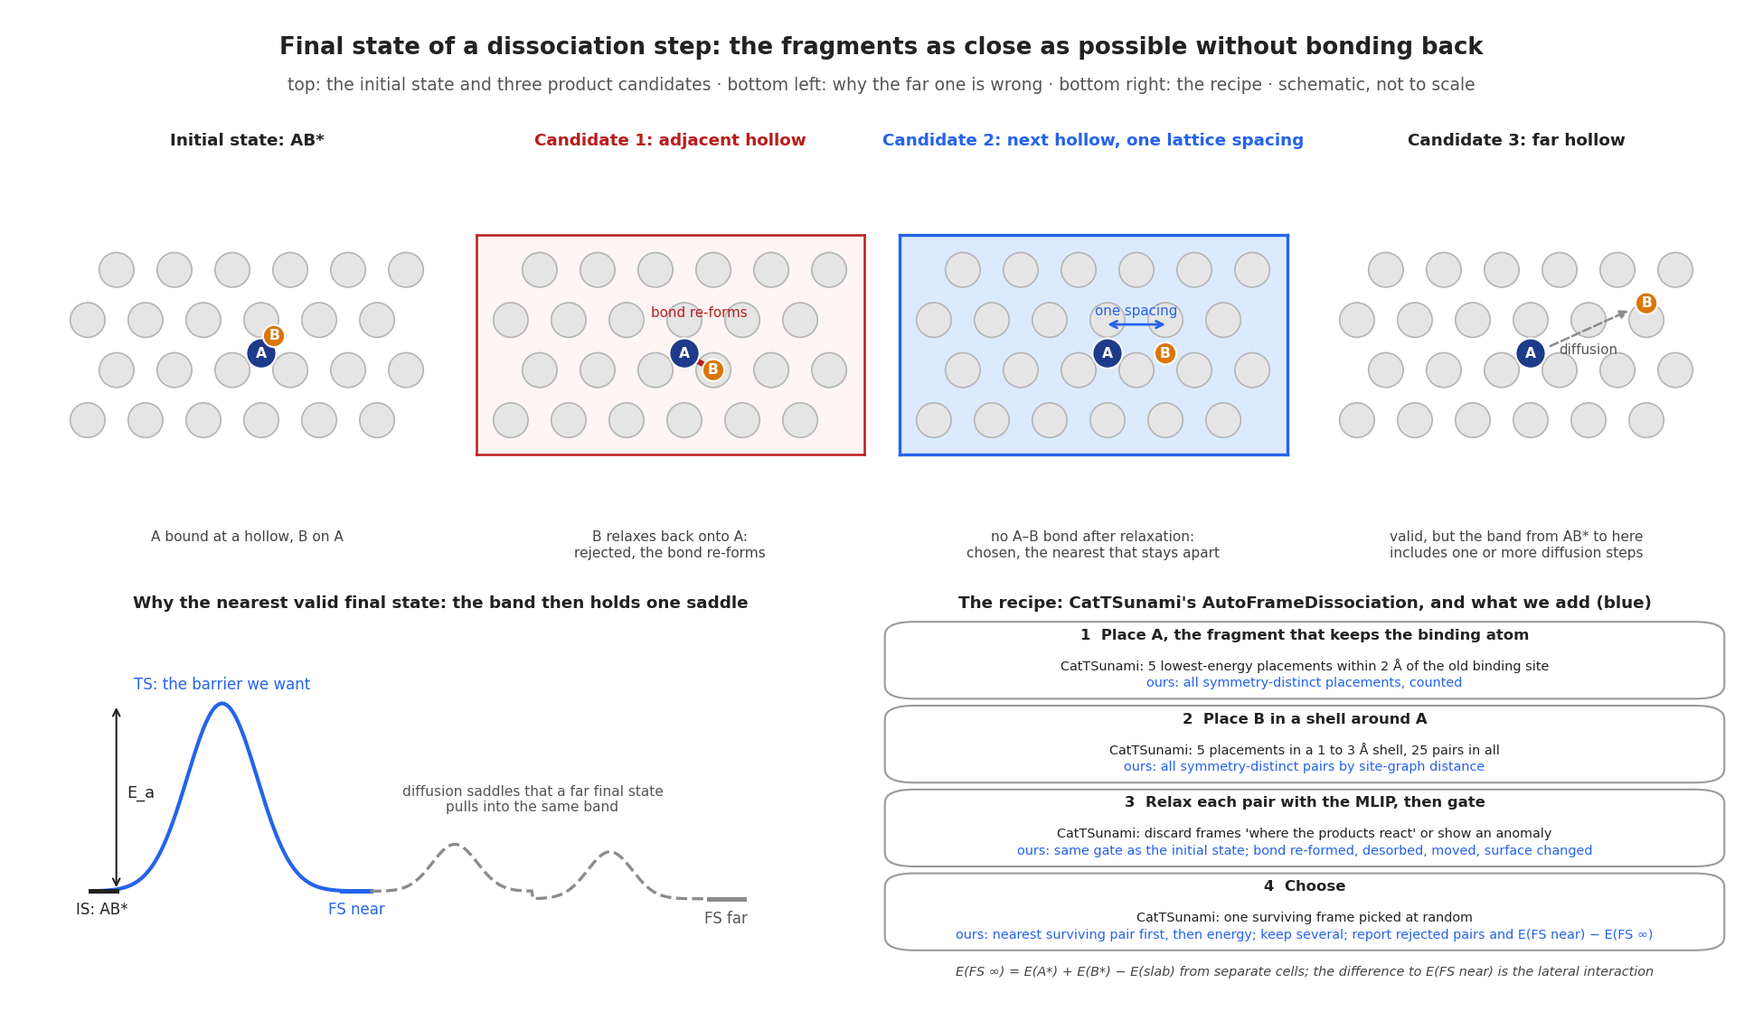
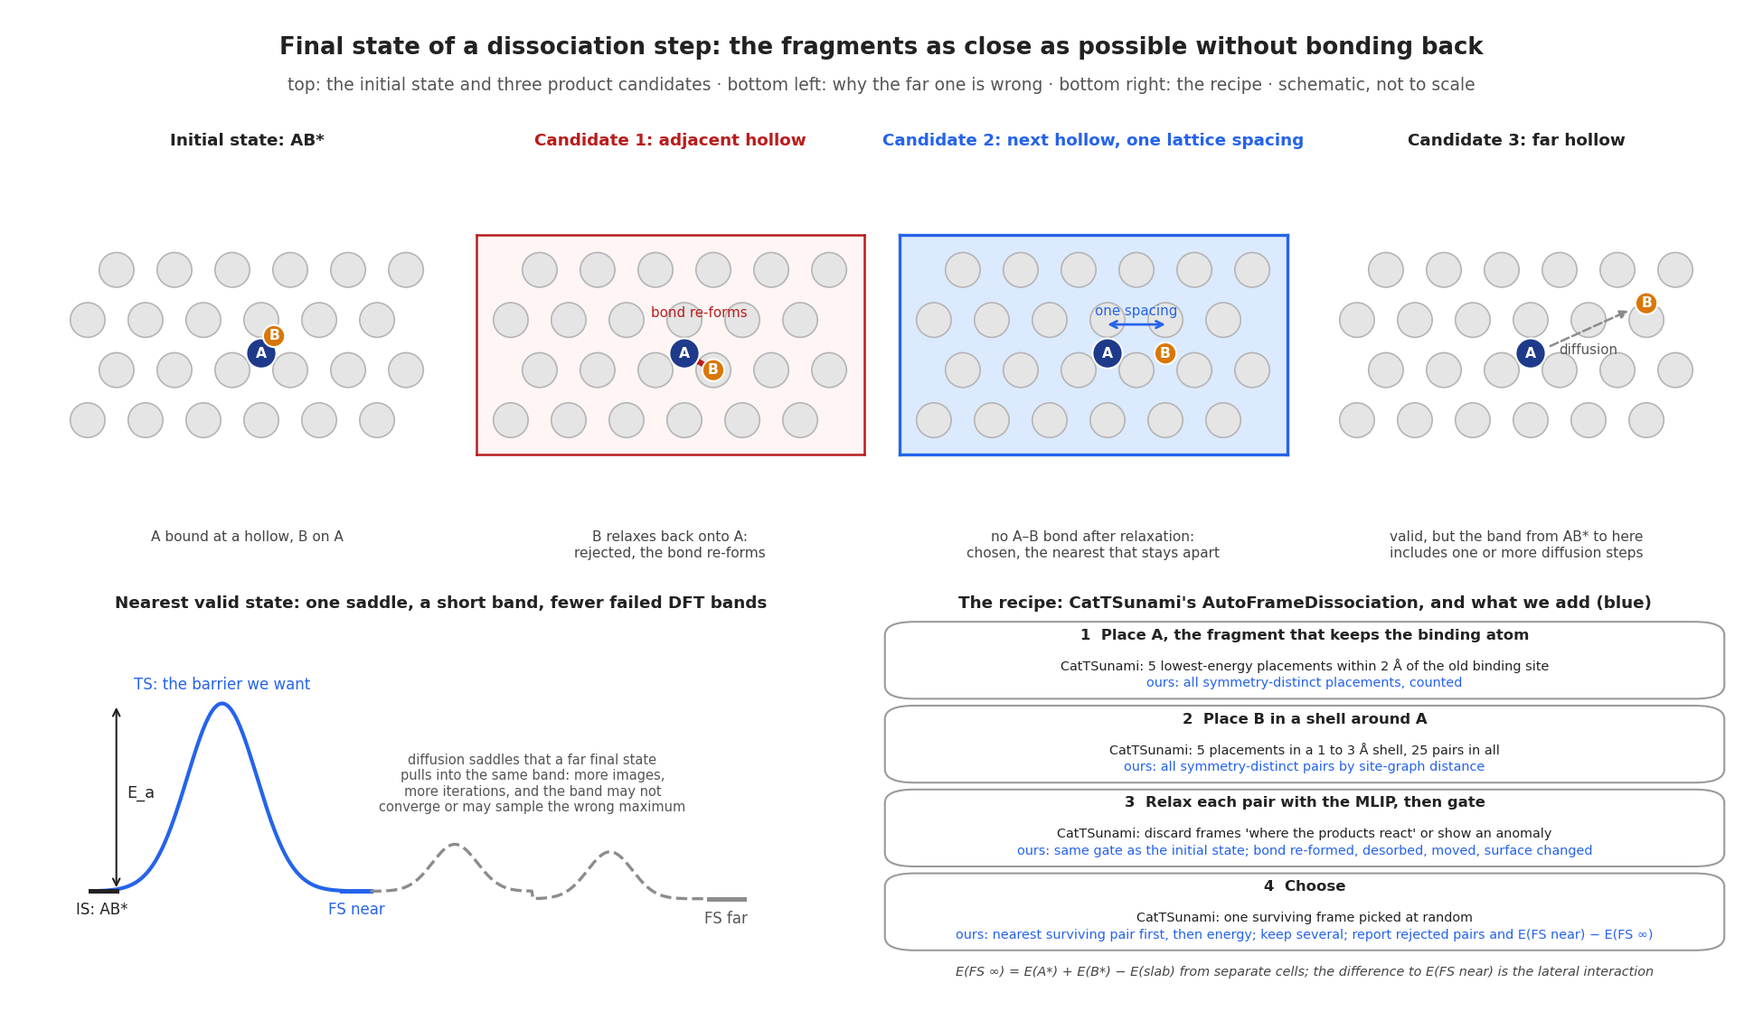
Add build plan figure and the cost argument for gated final states
docs/adsorption-agent-workflow.md: build plan (figure 22) under Decisions with the critical path; section 16 gains the cost argument with CatTSunami's convergence numbers, its two band checks, and the three measurable outputs.
docs/agent-context.md: build order in section 18; cost rule in section 23.
docs/figures: figure 22 and script; figure 21 updated. READMEs: figure count.

Changed region(s): [[0.0615, 0.5526, 0.4308, 0.614], [0.2154, 0.7368, 0.4, 0.7982]]

diff --git a/docs/figures/src/22-build-plan.py b/docs/figures/src/22-build-plan.py
@@ -1,0 +1,157 @@
+"""Figure 22: what has to be built, in which order, what each piece reuses, and what is measured.
+Numbered blue badges and thick blue arrows mark the critical path to the first measured barrier."""
+import sys, os
+sys.path.insert(0, os.path.dirname(__file__))
+from _style import *
+from matplotlib.patches import FancyBboxPatch, Circle
+
+GREEN, AMBER_F, AMBER_E, PURPLE_F, PURPLE_E = "#15803d", "#fef3c7", "#b45309", "#f3e8ff", "#7e22ce"
+KIND = {"decide": dict(fc="#f3f4f6", ec="#6b7280", lw=1.1, ls="-"),
+        "build":  dict(fc="white",   ec=EDGE,      lw=1.0, ls="-"),
+        "measure":dict(fc=AMBER_F,   ec=AMBER_E,   lw=1.1, ls="-"),
+        "release":dict(fc=HI_FACE,   ec=HI_EDGE,   lw=1.4, ls="-"),
+        "ext":    dict(fc=PURPLE_F,  ec=PURPLE_E,  lw=1.2, ls="--")}
+
+fig = plt.figure(figsize=(16, 11))
+ax = fig.add_axes([0, 0, 1, 1]); ax.set_xlim(0, 1); ax.set_ylim(0, 1); ax.axis("off")
+title(fig, "What has to be built: five columns in order, the numbered blue path is the shortest route to one measured barrier",
+      "each box: the task, what it does, what it reuses (green), what it needs (grey) · dashed purple is the extension layer · schematic")
+
+# legend
+leg = [("decide", "decide first (human)"), ("build", "build: a code tool"), ("measure", "measure: an experiment"),
+       ("release", "release"), ("ext", "extension layer, later")]
+for j, (k, lab) in enumerate(leg):
+    x = 0.02 + j * 0.15
+    ax.add_patch(FancyBboxPatch((x, 0.8835), 0.018, 0.011, boxstyle="round,pad=0.002,rounding_size=0.004", zorder=2, **KIND[k]))
+    ax.text(x + 0.023, 0.889, lab, ha="left", va="center", fontsize=8.2)
+ax.add_patch(Circle((0.787, 0.889), 0.0075, fc=HI_EDGE, ec="white", zorder=3)); ax.text(0.787, 0.889, "3", ha="center", va="center", fontsize=6.5, color="white", fontweight="bold", zorder=4)
+ax.text(0.80, 0.889, "critical path, in order", ha="left", va="center", fontsize=8.2)
+ax.text(0.905, 0.889, "reuse: existing code", ha="left", va="center", fontsize=8.2, color=GREEN)
+
+COLW, GAP, X0 = 0.176, 0.020, 0.014
+def cx(i): return X0 + i * (COLW + GAP)
+heads = ["0 · Decide first", "1 · Foundations", "2 · ML relaxation and trust", "3 · Path steps", "4 · Measure, then release"]
+for i, h in enumerate(heads):
+    ax.text(cx(i) + COLW / 2, 0.853, h, ha="center", va="center", fontsize=9.2, fontweight="bold", color="#333333")
+ax.plot([0.014, 0.982], [0.838, 0.838], color=EDGE, lw=0.8)
+
+TOP, PITCH, H = 0.828, 0.118, 0.102
+pos = {}
+def task(col, row, key, kind, head, body, reuse=None, needs=None, badge=None, h=H):
+    x = cx(col); y = TOP - row * PITCH - h
+    ax.add_patch(FancyBboxPatch((x, y), COLW, h, boxstyle="round,pad=0.003,rounding_size=0.01", zorder=2, **KIND[kind]))
+    ax.text(x + COLW / 2, y + h - 0.006, head, ha="center", va="top", fontsize=8.2, fontweight="bold", zorder=3)
+    yb = y + h - 0.030
+    ax.text(x + COLW / 2, yb, body, ha="center", va="top", fontsize=6.8, zorder=3, linespacing=1.18)
+    if reuse: ax.text(x + COLW / 2, y + 0.022 if needs else y + 0.006, "reuse: " + reuse, ha="center", va="bottom", fontsize=6.5, color=GREEN, zorder=3)
+    if needs: ax.text(x + COLW / 2, y + 0.006, "needs: " + needs, ha="center", va="bottom", fontsize=6.3, color="#777777", style="italic", zorder=3)
+    if badge:
+        ax.add_patch(Circle((x + 0.012, y + h - 0.012), 0.0095, fc=HI_EDGE, ec="white", lw=1.2, zorder=5))
+        ax.text(x + 0.012, y + h - 0.012, str(badge), ha="center", va="center", fontsize=7, color="white", fontweight="bold", zorder=6)
+    pos[key] = (x, y, COLW, h)
+
+# ---- column 0: decide
+task(0, 0, "D1", "decide", "System and product", "adsorbate AB*, surface, product A* + B*;\nfirst case *OH → *O + *H on Pt(111)?", badge=1)
+task(0, 1, "D2", "decide", "Compute and codes", "DFT code and budget; GPU for MLIPs;\nany DFT NEB at all, or ML only?")
+task(0, 2, "D3", "decide", "Benchmark and pass criterion", "OC20NEB subset as ground truth?\nthen settings must match OC20's\nRPBE and PAW choices")
+task(0, 3, "D4", "decide", "Headline claim", "barrier-ready endpoints, or\n'knows when not to trust itself'")
+task(0, 4, "D5", "decide", "Final-state rules", "distance metric; binding fragment\nfixed or free; nearest survivor or\nlowest energy within one hop")
+
+# ---- column 1: foundations
+task(1, 0, "T1", "build", "Settings lock", "convergence sweep on E_ads for cutoff,\nk-mesh, smearing, layers; writes\nPROJECT.md; every run reads it",
+     reuse="AiiDA common workflows, SSSP", needs="D1, D3", badge=2)
+task(1, 1, "T2", "build", "Site and pair enumeration", "symmetry-complete sites and A–B pairs;\nBurnside count; fcc and hcp apart;\ncount checked against the pattern",
+     reuse="spglib, CatKit, pymatgen", needs="T1", badge=3)
+task(1, 2, "T3", "build", "Placement script", "conformers in vacuum first; start 2 to 3 Å\nabove the site; random displacement;\nthe LLM never places atoms",
+     reuse="ASE, CatKit", needs="T2")
+task(1, 3, "T4", "build", "Validity gate", "AdsorbML's four checks + imaginary mode\n+ bond re-formed; one code path for\ninitial and final states",
+     reuse="fairchem anomaly detection", needs="T3", badge=4)
+task(1, 4, "T5", "build", "Descriptor card", "structure in; site, point group, CN, height,\nbonds, tilt, moments, verdicts out;\nthe only thing the LLM reads",
+     reuse="pymatgen, Robocrystallographer", needs="T4")
+
+# ---- column 2: ML and trust
+task(2, 0, "T6", "build", "MLIP choice", "benchmark two or three potentials on the\nsystem class; record the choice and why",
+     reuse="AtomisticSkills ml-mlip-benchmark", needs="D2", badge=5)
+task(2, 1, "T7", "build", "Calibrated doubt", "ensemble disagreement against DFT error\non a few labels; a threshold that\nescalates instead of guessing",
+     reuse="UMA, MACE, EquiformerV2", needs="T6, T4")
+task(2, 2, "T8", "build", "Rank and human checkpoint", "cards + rank + uncertainty shown;\nthe choice and its reason go to the\nlessons log, later into the skill",
+     reuse="none: ours", needs="T5, T7")
+task(2, 3, "T9", "ext", "+DFT on the chosen five", "single points before any path search;\nthe board's '+DFT?'", needs="T8, D2")
+task(2, 4, "T10", "ext", "Active-learning loop", "high doubt → a few DFT labels →\nfine-tune → re-run 6 to 8",
+     reuse="AtomisticSkills ml-mace-finetune", needs="T7, D2")
+
+# ---- column 3: path
+task(3, 0, "P1", "build", "Nearest non-recombining FS", "enumerate pairs, relax, gate, rank by\nsite distance; keep several; report\nrejected pairs and E(FS near) − E(FS ∞)",
+     reuse="fairchem AutoFrameDissociation", needs="T2, T4, T6, D5", badge=6)
+task(3, 1, "P2", "build", "Pairing and connectivity", "atom mapping and unwrapping across the\ncell; check the IS–FS pair is the\nintended reaction",
+     reuse="CatTSunami interpolation, NEBscape idea", needs="P1")
+task(3, 2, "P3", "build", "ML NEB and climbing image", "band on the MLIP, climbing image or\ndimer refinement; several pairs per\nreaction, lowest valid kept",
+     reuse="fairchem CatTSunami, ASE NEB", needs="P2", badge=7)
+task(3, 3, "P4", "build", "Saddle validation", "one imaginary mode; path ends at this IS and\nFS; connectivity constant along the band except\nthe breaking bond; diagnose, revise once",
+     reuse="ASE vibrations, Sella, CatTSunami band checks", needs="P3", badge=8)
+task(3, 4, "P5", "build", "DFT refinement and report", "single points with the locked settings;\nbarrier, validated path, ML and agentic\nuncertainty, full decision trace",
+     reuse="ASE calculators, AiiDA", needs="P4, T7, D2")
+
+# ---- column 4: measure and release
+task(4, 0, "M1", "measure", "H on Pt(111) end to end", "steps 1 to 8 on the simplest system;\nE_ads against CE27 and OC20",
+     needs="T1 to T8")
+task(4, 1, "M2", "measure", "*OH → *O + *H against OC20NEB", "our endpoints and band versus the\nreleased DFT band; barrier within\ntolerance is the pass criterion",
+     needs="P1 to P5, D3", badge=9)
+task(4, 2, "M3", "measure", "Three numbers nobody reports", "endpoint → barrier shift, naive versus gated\nendpoints, in eV and as a rate factor; how often\nthe nearest pair bonds back; DFT band force calls\nand failure rate, naive versus gated endpoints",
+     needs="P1, P3, D2")
+task(4, 3, "M4", "measure", "Ni(111) doubt demo", "the agent flags ML disagreement and\nstops for review instead of guessing",
+     needs="T7, T8")
+task(4, 4, "M5", "ext", "Agentic uncertainty", "run the planner N times on one input;\nreport how often its choices differ",
+     needs="T8, P5")
+task(4, 5, "R1", "release", "Release", "SKILL.md, MCP tools on AtomisticSkills,\nbenchmark data and traces on Zenodo",
+     needs="M1, M2", badge=10, h=0.072)
+
+# ---- critical path arrows
+def centre(k, side):
+    x, y, w, h = pos[k]
+    return {"r": (x + w, y + h / 2), "l": (x, y + h / 2), "t": (x + w / 2, y + h), "b": (x + w / 2, y)}[side]
+path = [("D1", "T1", "r", "l"), ("T1", "T2", "b", "t"), ("T2", "T4", "b", "t"), ("T4", "T6", "r", "l"),
+        ("T6", "P1", "r", "l"), ("P1", "P3", "b", "t"), ("P3", "P4", "b", "t"), ("P4", "M2", "r", "l"), ("M2", "R1", "r", "r")]
+for a, b, sa, sb in path:
+    p0, p1 = centre(a, sa), centre(b, sb)
+    if (a, b) == ("T2", "T4"):
+        # skip past T3 along the left margin of the column
+        x = pos["T2"][0] - 0.008
+        ax.plot([pos["T2"][0] + 0.03, x, x], [pos["T2"][1], pos["T2"][1], pos["T4"][1] + pos["T4"][3]], color=HI_EDGE, lw=2.2, zorder=1)
+        arrow(ax, (x, pos["T4"][1] + pos["T4"][3]), (pos["T4"][0] + 0.03, pos["T4"][1] + pos["T4"][3]), color=HI_EDGE, lw=2.2, ms=12)
+        continue
+    if (a, b) == ("P1", "P3"):
+        x = pos["P1"][0] - 0.008
+        ax.plot([pos["P1"][0] + 0.03, x, x], [pos["P1"][1], pos["P1"][1], pos["P3"][1] + pos["P3"][3]], color=HI_EDGE, lw=2.2, zorder=1)
+        arrow(ax, (x, pos["P3"][1] + pos["P3"][3]), (pos["P3"][0] + 0.03, pos["P3"][1] + pos["P3"][3]), color=HI_EDGE, lw=2.2, ms=12)
+        continue
+    if (a, b) == ("T4", "T6"):
+        # climb from T4 (row 3) to T6 (row 0) through the gap between the columns
+        xg = pos["T4"][0] + pos["T4"][2] + GAP / 2
+        ax.plot([p0[0], xg, xg], [p0[1], p0[1], p1[1]], color=HI_EDGE, lw=2.2, zorder=1)
+        arrow(ax, (xg, p1[1]), p1, color=HI_EDGE, lw=2.2, ms=12)
+        continue
+    if (a, b) == ("M2", "R1"):
+        # down the right margin of the last column, past the measurement boxes
+        xr = pos["M2"][0] + pos["M2"][2] + 0.009
+        ax.plot([pos["M2"][0] + pos["M2"][2], xr, xr], [p0[1] - 0.0, p0[1] - 0.0, pos["R1"][1] + pos["R1"][3] / 2], color=HI_EDGE, lw=2.2, zorder=1)
+        arrow(ax, (xr, pos["R1"][1] + pos["R1"][3] / 2), (pos["R1"][0] + pos["R1"][2], pos["R1"][1] + pos["R1"][3] / 2), color=HI_EDGE, lw=2.2, ms=12)
+        continue
+    if (a, b) == ("P4", "M2"):
+        xg = pos["P4"][0] + pos["P4"][2] + GAP / 2
+        ax.plot([p0[0], xg, xg], [p0[1], p0[1], p1[1]], color=HI_EDGE, lw=2.2, zorder=1)
+        arrow(ax, (xg, p1[1]), p1, color=HI_EDGE, lw=2.2, ms=12)
+        continue
+    arrow(ax, p0, p1, color=HI_EDGE, lw=2.2, ms=12)
+
+# ---- LLM and human layer
+yb = 0.035; hb = 0.072
+ax.add_patch(FancyBboxPatch((cx(1), yb), 4 * COLW + 3 * GAP, hb, boxstyle="round,pad=0.003,rounding_size=0.01", fc="white", ec=EDGE, lw=1.0, zorder=2))
+ax.text(cx(1) + (4 * COLW + 3 * GAP) / 2, yb + hb - 0.008, "The LLM and human layer that runs on top of every column, written last",
+        ha="center", va="top", fontsize=8.2, fontweight="bold", zorder=3)
+ax.text(cx(1) + (4 * COLW + 3 * GAP) / 2, yb + 0.008,
+        "SKILL.md with the procedures (few, human-written) · Formulate interview and PROJECT.md template · lessons log that feeds the skill · "
+        "a planner that calls the tools by name, reads descriptor cards, never writes coordinates, and stops at the checkpoints",
+        ha="center", va="bottom", fontsize=6.9, zorder=3, linespacing=1.3)
+ax.text(cx(0) + COLW / 2, yb + hb / 2, "Answers to column 0\nunblock everything\nto the right", ha="center", va="center", fontsize=7.4, style="italic", color="#555555")
+finish(fig, os.path.join(os.path.dirname(__file__), "..", "22-build-plan.png"))

diff --git a/docs/figures/src/21-nearest-non-recombining-final-state.py b/docs/figures/src/21-nearest-non-recombining-final-state.py
@@ -83,10 +83,10 @@ ax.plot(x2, y2, color=GREY, lw=1.6, ls="--")
 ax.plot([8.8, 9.3], [0.32, 0.32], color=GREY, lw=2.4)
 ax.text(0.2, 0.15, "IS: AB*", ha="center", fontsize=8); ax.text(1.9, 2.55, "TS: the barrier we want", ha="center", fontsize=8, color=HI_EDGE)
 ax.text(3.8, 0.15, "FS near", ha="center", fontsize=8, color=HI_EDGE); ax.text(9.05, 0.06, "FS far", ha="center", fontsize=8, color="#555555")
-ax.text(6.3, 1.25, "diffusion saddles that a far final state\npulls into the same band", ha="center", fontsize=7.4, color="#555555")
+ax.text(6.3, 1.25, "diffusion saddles that a far final state\npulls into the same band: more images,\nmore iterations, and the band may not\nconverge or may sample the wrong maximum", ha="center", fontsize=7.0, color="#555555", linespacing=1.2)
 ax.annotate("", xy=(0.4, 2.4), xytext=(0.4, 0.4), arrowprops=dict(arrowstyle="<->", color=TEXT, lw=1.0))
 ax.text(0.55, 1.4, "E_a", fontsize=8.5)
-fig.text(0.25, 0.41, "Why the nearest valid final state: the band then holds one saddle", ha="center", fontsize=8.8, fontweight="bold")
+fig.text(0.25, 0.41, "Nearest valid state: one saddle, a short band, fewer failed DFT bands", ha="center", fontsize=8.8, fontweight="bold")
 
 # ---------- bottom right: recipe
 ax = fig.add_axes([0.50, 0.05, 0.48, 0.37]); ax.axis("off"); ax.set_xlim(0, 1); ax.set_ylim(0, 1)

diff --git a/docs/adsorption-agent-workflow.md b/docs/adsorption-agent-workflow.md
@@ -597,6 +597,17 @@ The product state of a dissociation step is the co-adsorbed pair that sits as cl
 
 **Why nearest.** The nudged elastic band from AB\* to a far-away product passes the bond-breaking saddle and then one or more diffusion saddles; the band then holds several maxima, the climbing image can lock onto the wrong one, and the barrier reported is not the elementary step. The nearest valid product gives a band with one saddle. The nearest product is not necessarily the lowest in energy: fragments at adjacent sites often repel, so E(FS near) can lie above the infinite-separation value E(FS ∞) = E(A\*) + E(B\*) − E(slab) from separate cells. Both should be reported; the difference is the lateral interaction, and the diffusion from the near to the stable product is a separate step.
 
+**Why it matters for cost.** The DFT band is the expensive step, and it is the step that fails. A far or invalid product makes the band long, so it needs more images and more iterations, and it may not converge or may converge to the wrong maximum. The nearest validated product keeps the band short with one saddle, so it converges in fewer force calls and fails less often. CatTSunami reports the failure side of this even with its heuristic endpoints:
+
+| CatTSunami quantity                                                                   | Value                                  |
+|---------------------------------------------------------------------------------------|----------------------------------------|
+| Force convergence criterion for a band                                                | fmax < 0.05 eV/Å within the step limit |
+| ML bands that converged, dissociations and transfers (Equiformer V2)                  | 81 to 82 % and 68 to 72 %              |
+| DFT bands in the CO-hydrogenation case study that converged at the standard settings  | 102; 8 failed and needed a rerun       |
+| Converged bands that were nevertheless wrong                                          | 14 %                                   |
+
+The two wrong-band modes it names are too few frames to sample the saddle, and a bond other than the intended one breaking or forming along the band. Its two filters, the breaking bond elongated to between 1.25 and 1.63 times its initial length in some frame and connectivity constant along the band except that bond, belong in our saddle validation (step 12). So the endpoint work has three measurable outputs, not one: the barrier shift, the recombination rate of nearest pairs, and the DFT force calls and failure rate of bands from gated endpoints against bands from naive endpoints.
+
 ![The product fragments go as close as possible without bonding back; a far final state folds diffusion into the band](figures/21-nearest-non-recombining-final-state.png)
 
 *Figure: nearest non-recombining final state · 4 candidates, 1 profile, 4 recipe steps, schematic, not to scale*
@@ -719,6 +730,14 @@ Do not pivot; sharpen. Keep the adsorption domain and change the claim from "an 
 - Does any DFT nudged-elastic-band compute exist for the propagation experiment, or does it run on ML with OC20NEB labels as the reference?
 
 - Should the headline claim move from "knows when not to trust itself" to "barrier-ready endpoints": every adsorption energy validated as an initial or final state for a transition-state search, with the endpoint-to-barrier error propagation measured? TSAgent and CatDT make a plain transition-state agent a crowded claim; the endpoint claim is not yet taken.
+
+**Build plan.** Five columns in order; the numbered path is the shortest route to one measured barrier, and the answers in column 0 unblock everything to the right.
+
+![The shortest route to one measured barrier runs through ten numbered boxes; everything else hangs off them](figures/22-build-plan.png)
+
+*Figure: build plan · 5 columns, 25 tasks, critical path of 10, schematic*
+
+Reading the figure: column 0 holds the decisions only the team can make, in grey. Column 1 is the code foundation: settings lock, enumeration, placement, validity gate, descriptor card. Column 2 is ML relaxation and trust: potential choice, calibrated doubt, the human checkpoint, with the board's two question marks dashed. Column 3 is the path: the nearest non-recombining final state, pairing, the ML band, saddle validation, DFT refinement and the report. Column 4 is what gets measured, in amber, and the release, in blue. Each box names what it reuses in green and what it needs in grey. The numbered blue path is: system and product, settings lock, enumeration, validity gate, potential choice, nearest final state, ML band, saddle validation, the \*OH → \*O + \*H comparison against OC20NEB, release. The band at the bottom is the LLM and human layer, written last because it only calls the tools.
 
 **Next steps.**
 

diff --git a/docs/agent-context.md b/docs/agent-context.md
@@ -261,6 +261,8 @@ Metrics: success in finding the DFT minimum; error against DFT; fraction of own 
 
 ## 18. Next steps
 
+Build order (critical path, figure 22 of the human document): 1 decide system and product; 2 settings lock; 3 site and pair enumeration; 4 validity gate; 5 MLIP choice; 6 nearest non-recombining final state; 7 ML band with climbing image; 8 saddle validation; 9 *OH → *O + *H against OC20NEB; 10 release. Column 0 decisions (system, compute, benchmark, headline claim, final-state rules) unblock everything else. The LLM and human layer (SKILL.md, interview, lessons log, planner) is written last.
+
 - [ ] Draft SKILL.md for adsorption and transition-state calculations
 - [ ] Draft the PROJECT.md template and the Formulate interview questions
 - [ ] Implement symmetry enumeration (sites and pairs) and the validity-check tools
@@ -363,6 +365,8 @@ Recipe (CatTSunami AutoFrameDissociation → ours):
 2. Place B in a shell around A. CatTSunami: 5 placements in a 1 to 3 Å shell, 25 pairs. Ours: all symmetry-distinct pairs ordered by site-graph distance.
 3. Relax each pair with the MLIP, then gate. CatTSunami: discard frames where the products react or an anomaly occurs. Ours: the section 6 gate plus the bond-re-formed check.
 4. Choose. CatTSunami: one survivor at random. Ours: nearest survivor first, then energy; keep several; report rejected pairs and E(FS near) − E(FS ∞).
+
+Cost rule: the DFT band is the expensive step and the one that fails. A far or invalid product means more images, more iterations, and a band that may not converge or may sample the wrong maximum. CatTSunami, with heuristic endpoints: force criterion fmax < 0.05 eV/Å; ML bands converged 81–82 % (dissociations) and 68–72 % (transfers); in its case study 102 DFT bands converged and 8 failed; 14 % of converged bands were wrong (too few frames to sample the saddle, or an unintended bond broke or formed). Add its two band checks to saddle validation: the breaking bond elongated 1.25× to 1.63× in some frame; connectivity constant along the band except that bond. Three measurable outputs of the endpoint work: barrier shift, nearest-pair recombination rate, DFT force calls and failure rate for gated versus naive endpoints.
 
 Prior work: CatTSunami (heuristic, sampled, open source in fairchem); Pynta (atom maps in, symmetry-unique configurations, IRC validation, DFT cost); NEBscape (global optimisation finds the lowest product, possibly the far one); Reproducible NEB orchestration (gas phase only); El Agente Potente (LLM agent, final-image choice not described); classical DFT papers place fragments at nearest or next-nearest hollows by hand.
 

diff --git a/docs/README.md b/docs/README.md
@@ -4,7 +4,7 @@
 - `agent-context.md`: the same content for agents, text only; every figure restated as a table, list or rule.
 - `agent-writing-style.md`: how agents write and draw for this project.
 - `CLAUDE.md`: when agents update which file.
-- `figures/`: the 21 figures as PNG files, numbered in reading order.
-- `figures/src/`: the Python (matplotlib) scripts that draw figures 13 to 21, plus `_style.py` with the shared look. Scripts for figures 1 to 12 are not in the repository.
+- `figures/`: the 22 figures as PNG files, numbered in reading order.
+- `figures/src/`: the Python (matplotlib) scripts that draw figures 13 to 22, plus `_style.py` with the shared look. Scripts for figures 1 to 12 are not in the repository.
 
 Open the folder in any Markdown viewer (GitHub, VS Code, Obsidian, Typora) and the figures display inline. Equations use `$$ … $$` (LaTeX), which GitHub, VS Code and Obsidian render.

diff --git a/README.md b/README.md
@@ -15,5 +15,5 @@ An AI agent that computes adsorption energies on catalyst surfaces reliably, and
     ├── agent-context.md               the same for agents: text only, no figures
     ├── agent-writing-style.md         how agents write and draw for this project
     └── figures/                       PNG figures for the design doc, numbered in reading order
-        └── src/                       matplotlib scripts for figures 13 to 21
+        └── src/                       matplotlib scripts for figures 13 to 22
 ```
